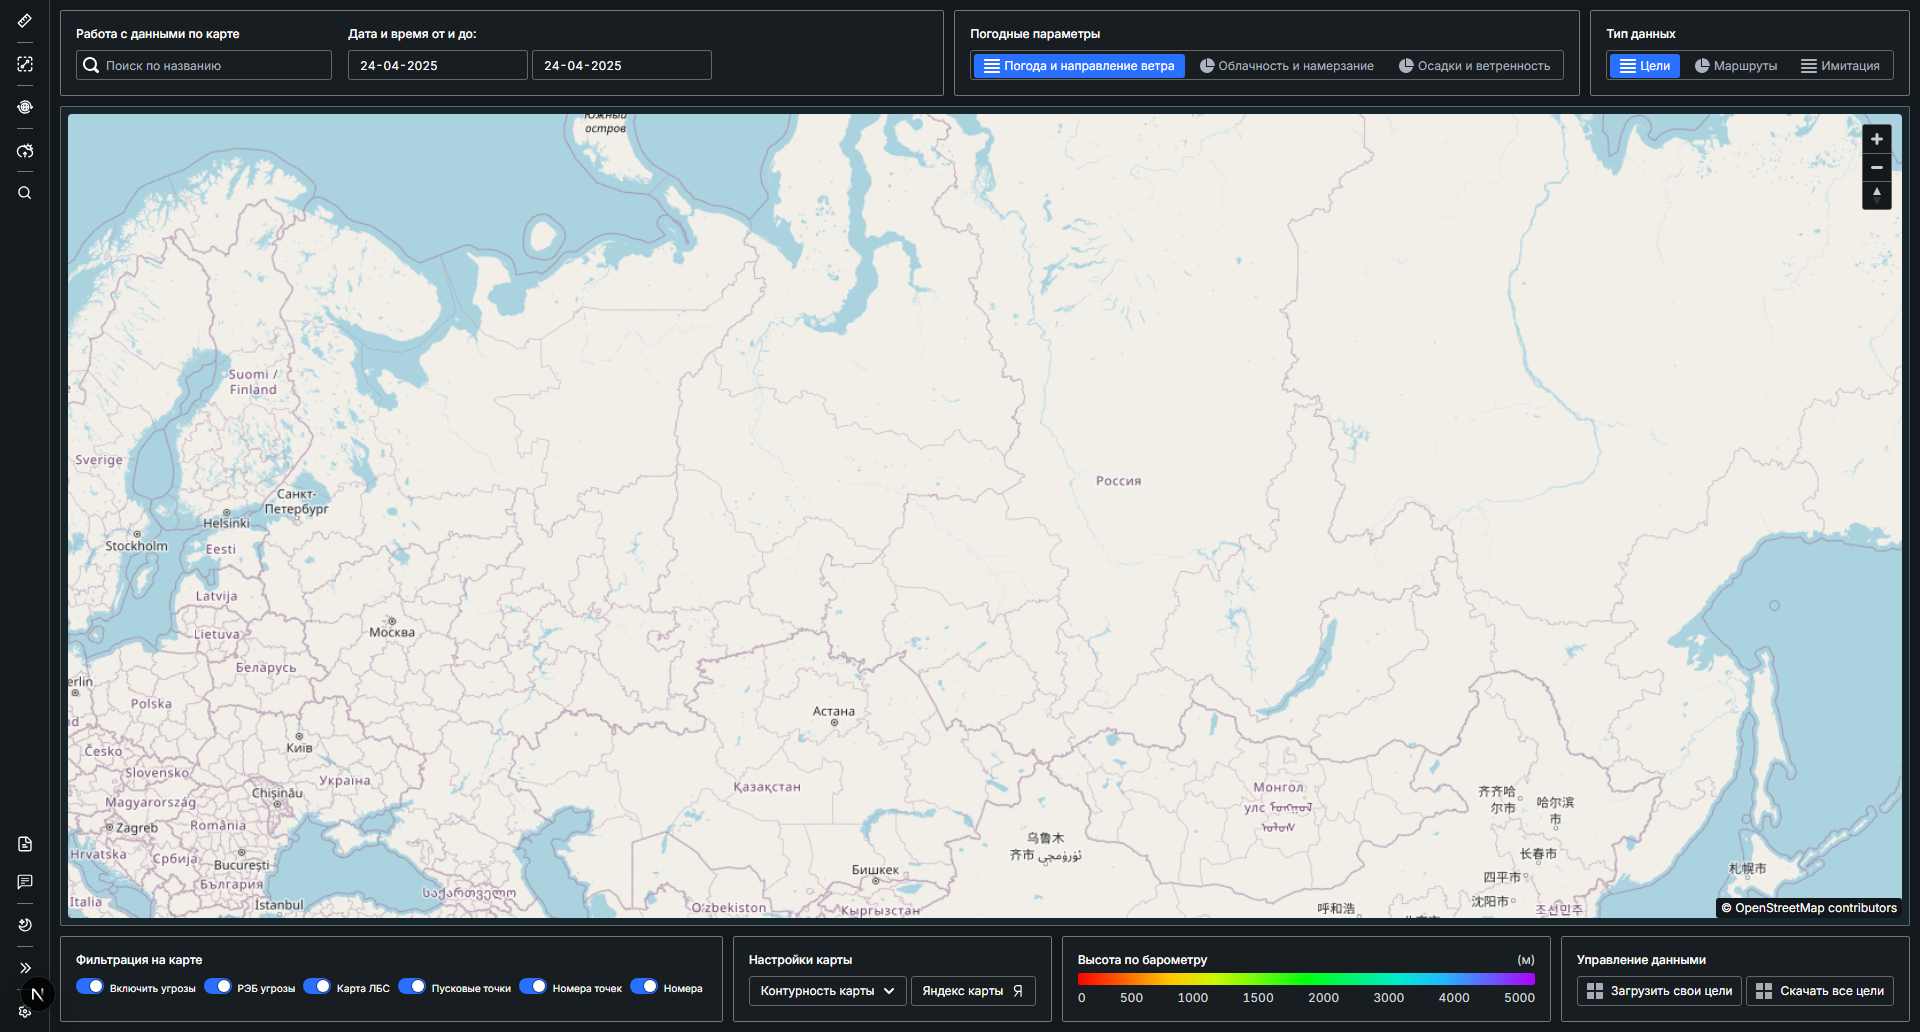
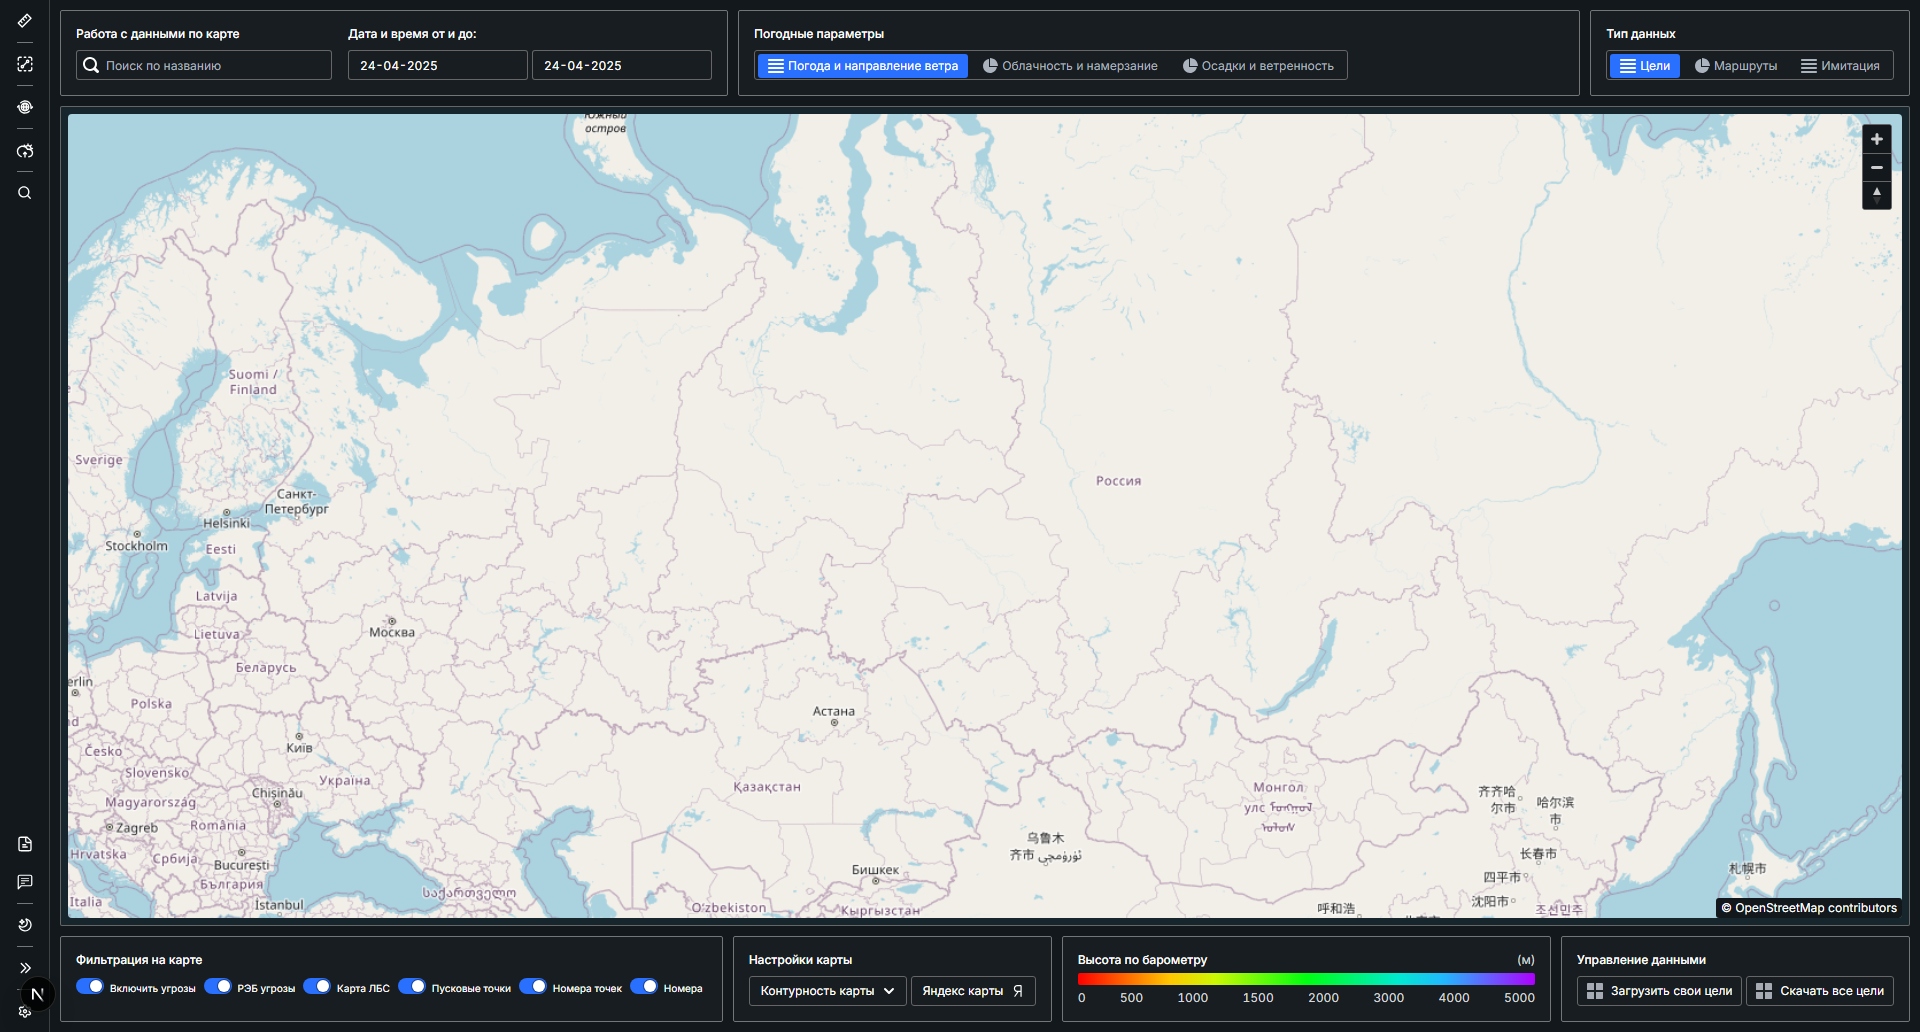
style(routes): hug the data-work card; make «Погодные параметры» the rubber block
Per the эталон the «Работа с данными по карте» card's right edge must sit 16px
from its last input. It was flexible (stretched to fill the toolbar, leaving a
gap after the inputs), so drop `flexible` — the card now hugs its content (right
edge = the 16px card padding from the last input). «Погодные параметры» becomes
the flexible (rubber) card and absorbs the freed toolbar width; «Тип данных»
stays right-anchored. Verified at 1920 collapsed + expanded (edge exactly 16px,
no overflow); check:visual 0.000. Refreshed the routes (x2) baselines.

Changed region(s): [[0.375, 0.031, 0.8125, 0.093]]

diff --git a/src/components/TabTopControls/TabTopControls.module.scss b/src/components/TabTopControls/TabTopControls.module.scss
@@ -249,10 +249,11 @@
 }
 
 // ── "Работа с данными по карте" (bar): inputs sized to the Figma эталон ───────
-// This is the flexible (rubber) toolbar block, but its inputs hug the left at
-// fixed widths instead of stretching to fill it: search 256 / dates 180 each
-// with the rail collapsed, narrowing to 181 / 120 expanded; the search and date
-// group sit 16px apart (not the 24px inter-field card gap).
+// The card hugs its content (the rubber/flexible toolbar block is «Погодные
+// параметры», not this one), so its right edge sits 16px from the last input.
+// The inputs keep fixed эталон widths: search 256 / dates 180 each with the rail
+// collapsed, narrowing to 181 / 120 expanded; the search and date group sit 16px
+// apart (not the 24px inter-field card gap).
 .dataWorkCard.dataWorkCard {
   gap: t.$top-controls-group-gap;
 }

diff --git a/src/components/TabTopControls/TabTopControls.tsx b/src/components/TabTopControls/TabTopControls.tsx
@@ -130,7 +130,7 @@ const BAR_DATA_TYPES: readonly SegmentItem[] = [
 function WeatherCard() {
   const [value, setValue] = useState(BAR_WEATHER[0].id);
   return (
-    <ControlCard ariaLabel="Погодные параметры">
+    <ControlCard ariaLabel="Погодные параметры" flexible>
       <ControlField title="Погодные параметры">
         <SegmentedControl
           ariaLabel="Погодные параметры"
@@ -146,7 +146,7 @@ function WeatherCard() {
 function RoutesTopControls() {
   return (
     <Toolbar label="Управление: маршруты" trailing={<DataTypeCard items={BAR_DATA_TYPES} />}>
-      <ControlCard ariaLabel="Работа с данными по карте" className={styles.dataWorkCard} flexible>
+      <ControlCard ariaLabel="Работа с данными по карте" className={styles.dataWorkCard}>
         <ControlField title="Работа с данными по карте">
           <SearchField placeholder="Поиск по названию" />
         </ControlField>